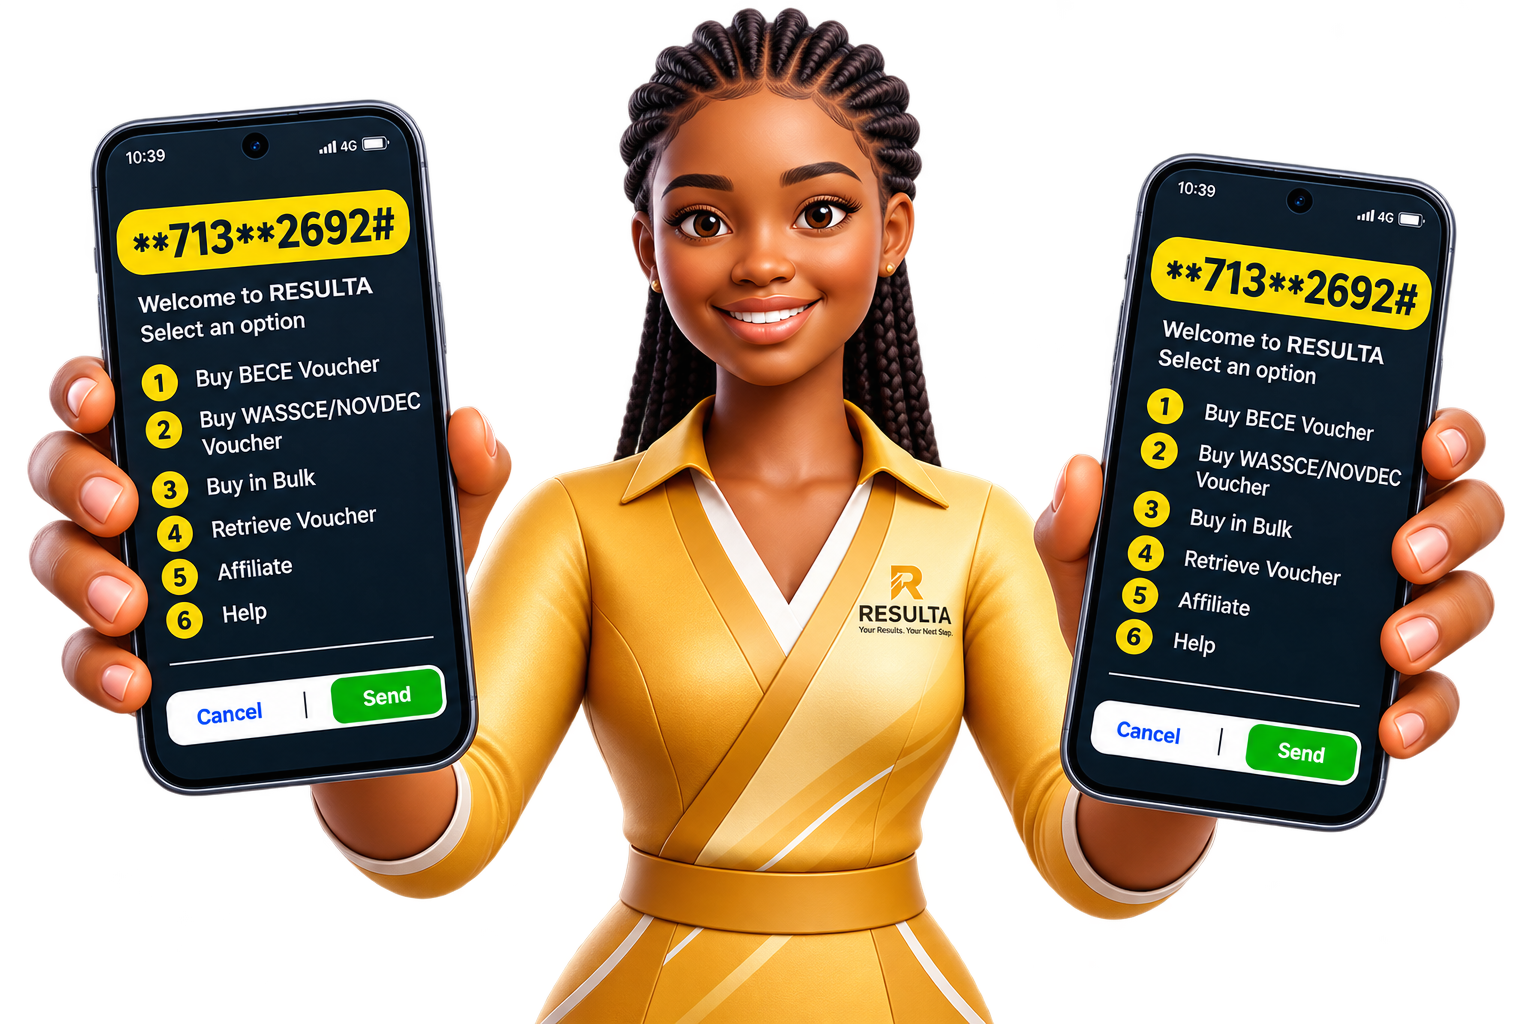
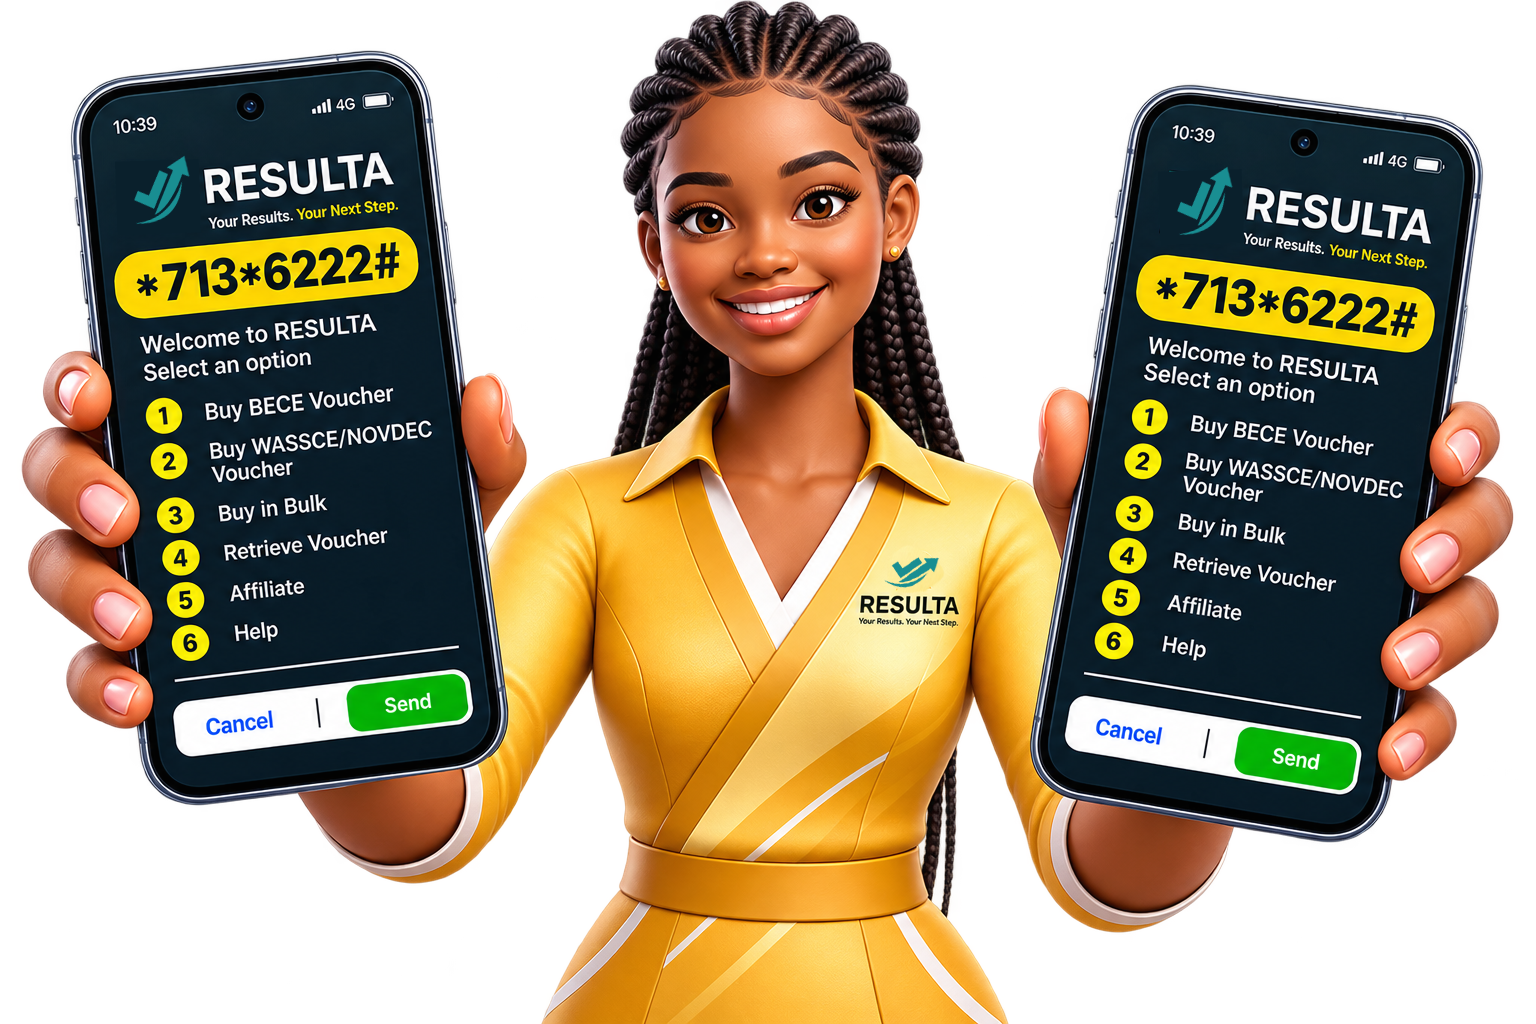
Live USSD codes updated on site

diff --git a/src/components/website/home/HowItWorksUSSD.tsx b/src/components/website/home/HowItWorksUSSD.tsx
@@ -5,10 +5,10 @@ const steps = [
     id: 1,
     number: '01',
     title: 'DIAL',
-    description: '*713*2692#',
+    description: '*713*6222#',
     phoneContent: {
       title: 'USSD',
-      lines: ['*713*2692#', '', 'Connecting...'],
+      lines: ['*713*6222#', '', 'Connecting...'],
       accent: false,
     },
   },
@@ -115,7 +115,7 @@ const HowItWorksUSSD: React.FC = () => {
             How It Works
           </span>
           <h2 className="text-4xl sm:text-6xl lg:text-8xl font-extrabold text-white leading-tight">
-            *713*2692#
+            *713*6222#
           </h2>
           <p className="mt-4 text-sm sm:text-base text-white/70 max-w-xl mx-auto">
             Get your Resulta voucher quickly and easily from your phone.

diff --git a/src/components/website/home/HeroSection.tsx b/src/components/website/home/HeroSection.tsx
@@ -106,7 +106,7 @@ const slides = [
             </h1>
 
             <p className="font-extrabold text-accent mt-6 text-base text-3xl sm:text-4xl lg:text-5xl leading-relaxed">
-              *713*2692#
+              *713*6222#
             </p>
 
               <div className="mt-8">
@@ -164,7 +164,7 @@ const slides = [
               </span>
 
               <h2 className="relative z-10 text-5xl sm:text-7xl lg:text-8xl font-black text-white leading-none tracking-tight">
-                *713*2692#
+                *713*6222#
               </h2>
 
               <p className="relative z-10 mt-6 text-base lg:text-lg text-white/90 leading-relaxed">
